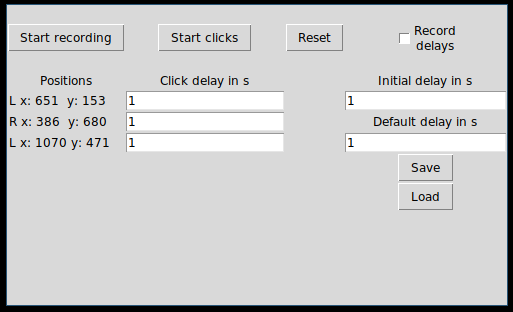
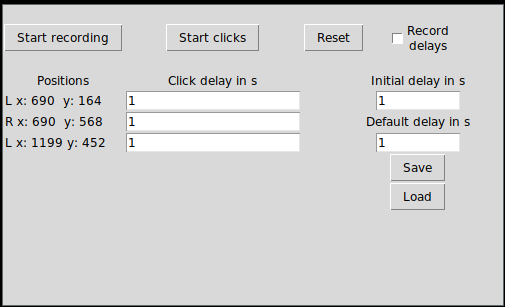
Improved layout

diff --git a/guiclicker.py b/guiclicker.py
@@ -20,10 +20,14 @@ window = Tk()
 window.title("Click recorder")
 window.geometry('500x300')
 window.rowconfigure(0,pad=30)
-window.columnconfigure(0,weight=2)
-window.columnconfigure(1,weight=4)
-window.columnconfigure(2,weight=1)
-window.columnconfigure(3,weight=2)
+# window.columnconfigure(0,weight=2)
+# window.columnconfigure(1,weight=4)
+# window.columnconfigure(2,weight=1)
+# window.columnconfigure(3,weight=2)
+window.columnconfigure(0,minsize=120)
+window.columnconfigure(1,minsize=180)
+window.columnconfigure(2,minsize=50)
+
 b1_text = StringVar(window)
 b3_text = StringVar(window)
 rec_dur = IntVar(window)
@@ -161,7 +165,7 @@ def make_inputs():
             delay_inputs[i].insert(0,str((delays[i-j+1] - delays[i-j]).total_seconds() ) )
         else:
             delay_inputs[i].insert(0,default_delay.get())
-        delay_inputs[i].grid(column=1,row=i+2)
+        delay_inputs[i].grid(column=1,row=i+2,ipadx=5)
     delays = []
 
 
@@ -186,7 +190,7 @@ chk1.grid(column=3,row=0)
 lbl3 = Label(window,text="Initial delay in s")
 lbl3.grid(column=3, row = 1)
 
-init_delay_entry = Entry(window,textvariable=init_delay)
+init_delay_entry = Entry(window,textvariable=init_delay,width=10)
 init_delay_entry.grid(column=3,row=2)
 def fill_ini(event=None):
     content = init_delay_entry.get()
@@ -197,7 +201,7 @@ init_delay_entry.bind('<FocusOut>',fill_ini)
 lbl4 = Label(window,text="Default delay in s")
 lbl4.grid(column=3, row = 3)
 
-default_delay_entry = Entry(window,textvariable=default_delay)
+default_delay_entry = Entry(window,textvariable=default_delay,width=10)
 default_delay_entry.grid(column=3,row=4)
 def fill_default(event=None):
     content = default_delay_entry.get()
